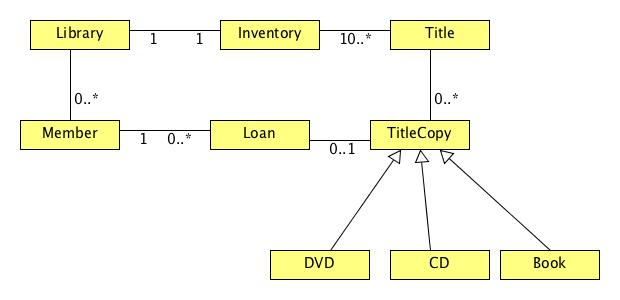
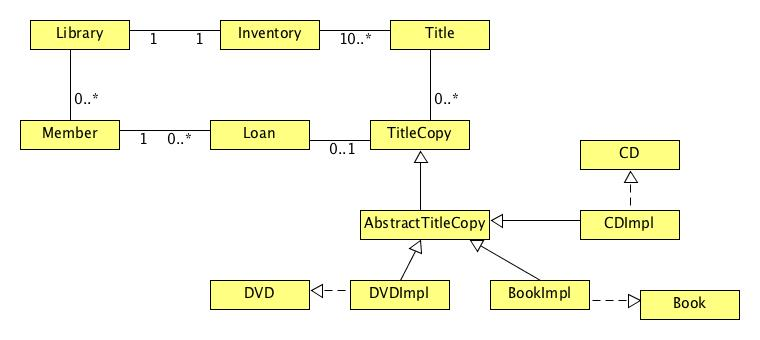
- update class diagram - make TitleCopyImpl abstract

diff --git a/simple-library/src/test/java/org/ahoque/MemberImplTest.java b/simple-library/src/test/java/org/ahoque/MemberImplTest.java
@@ -25,7 +25,7 @@ public class MemberImplTest {
 	@Test
 	public void givenOneItem_whenTheItemIsBorrowed_thenTheNumberOfBorrowedItemsShouldBeOne() {
 		
-		TitleCopy item = new TitleCopyImpl("1234");
+		TitleCopy item = new DVDImpl("1234");
 		member.borrowItem(item);
 		
 		assertEquals(1, member.getLoanItems().size());
@@ -34,7 +34,7 @@ public class MemberImplTest {
 	@Test
 	public void givenOneItem_whenTheItemIsBorrowed_andReturned_thenTheNumberOfBorrowedItemsShouldBeZero() {
 		
-		TitleCopy item = new TitleCopyImpl("1234");
+		TitleCopy item = new DVDImpl("1234");
 		member.returnItem(item);
 
 		assertEquals(0, member.getLoanItems().size());
@@ -44,21 +44,21 @@ public class MemberImplTest {
 	public void givenFourItems_whenItemsAreBorrowedAndTwoAreReturned_thenTheNumberOfBorrowedItemShouldBeTwo() {
 		
 		List<TitleCopy> items = new ArrayList<>();
-		items.add(new TitleCopyImpl("1234"));
-		items.add(new TitleCopyImpl("23432"));
-		items.add(new TitleCopyImpl("32432"));
-		items.add(new TitleCopyImpl("132432"));
+		items.add(new DVDImpl("1234"));
+		items.add(new DVDImpl("23432"));
+		items.add(new DVDImpl("32432"));
+		items.add(new DVDImpl("132432"));
 		
 		items.forEach( item -> member.borrowItem(item));
 		
-		member.returnItem(new TitleCopyImpl("23432"));
-		member.returnItem(new TitleCopyImpl("132432"));
+		member.returnItem(new DVDImpl("23432"));
+		member.returnItem(new DVDImpl("132432"));
 
 		assertEquals(2, member.getLoanItems().size());
 		
 		List<TitleCopy> expectedLoanedItems = new ArrayList<>();
-		expectedLoanedItems.add(new TitleCopyImpl("1234"));
-		expectedLoanedItems.add(new TitleCopyImpl("32432"));
+		expectedLoanedItems.add(new DVDImpl("1234"));
+		expectedLoanedItems.add(new DVDImpl("32432"));
 		
 		assertEquals(expectedLoanedItems, member.getLoanItems());
 	}

diff --git a/simple-library/src/main/java/org/ahoque/AbstractTitleCopy.java b/simple-library/src/main/java/org/ahoque/AbstractTitleCopy.java
@@ -2,12 +2,14 @@ package org.ahoque;
 
 import java.util.Optional;
 
-public class TitleCopyImpl implements TitleCopy {
+public abstract class AbstractTitleCopy implements TitleCopy {
 
+	private static final int HASH = 7;
+	private static final int HASH_PRIME = 31;
+	
 	private final String id;
 	
-	/** When a copy is loaned the loan object is set.
-	 */
+	// When a copy is loaned the loan object is set.
 	private Optional<LoanImpl> loan = Optional.empty();
 
 	/**
@@ -15,7 +17,7 @@ public class TitleCopyImpl implements TitleCopy {
 	 * 
 	 * @param id the unique identifier of the copy
 	 */
-	public TitleCopyImpl(String id) {
+	public AbstractTitleCopy(String id) {
 		this.id = id;
 	}
 
@@ -41,8 +43,8 @@ public class TitleCopyImpl implements TitleCopy {
 
 	@Override
 	public int hashCode() {
-		int hash = 7;
-		hash = 31 * hash + id.hashCode();
+		int hash = HASH;
+		hash = HASH_PRIME * hash + id.hashCode();
 		return hash;
 	}
 

diff --git a/simple-library/src/test/java/org/ahoque/InventoryImplTest.java b/simple-library/src/test/java/org/ahoque/InventoryImplTest.java
@@ -25,7 +25,7 @@ public class InventoryImplTest {
 	public void givenAnEmptyInventory_whenAddItem_andGetLonableItems_thenTheInventoryShouldHaveOneItem() {
 		
 		Title title = new TitleImpl("Star Wars", "Marvel Comics");
-		TitleCopy copy = new TitleCopyImpl("1323");
+		TitleCopy copy = new DVDImpl("1323");
 		title.add(copy);
 		inventory.add(title);
 		
@@ -37,7 +37,7 @@ public class InventoryImplTest {
 		
 		for(int i = 0; i < 10; i++) {
 			Title title = new TitleImpl("Friends part" + (i + 1), "MGM");
-			TitleCopy copy = new TitleCopyImpl("1323" + i);
+			TitleCopy copy = new DVDImpl("1323" + i);
 			title.add(copy);
 			inventory.add(title);
 		}

diff --git a/simple-library/src/test/java/org/ahoque/TitleCopyImplTest.java b/simple-library/src/test/java/org/ahoque/TitleCopyImplTest.java
@@ -7,10 +7,10 @@ import org.junit.Test;
 public class TitleCopyImplTest {
 
 	@Test
-	public void givenTwoTitleCopies_whenEqualTest_thenTheTwoCopiesShouldBeEqual() {
+	public void givenTwoTitleCopies_whenTheTwoCopiesAreCompared_thenTheTwoCopiesShouldBeEqual() {
 		
-		TitleCopy copy1 = new TitleCopyImpl("12345");
-		TitleCopy copy2 = new TitleCopyImpl("12345");
+		TitleCopy copy1 = new DVDImpl("12345");
+		TitleCopy copy2 = new DVDImpl("12345");
 		
 		assertTrue(copy1.equals(copy2));
 	}

diff --git a/simple-library/src/test/java/org/ahoque/LibraryImplTest.java b/simple-library/src/test/java/org/ahoque/LibraryImplTest.java
@@ -23,7 +23,7 @@ public class LibraryImplTest {
 		library = new LibraryImpl();
 		
 		Title title = new TitleImpl("WarGames", "Metro-Goldwyn-Mayer Studios Inc");
-		TitleCopy warGamesCopy = new TitleCopyImpl(UNIQUE_ID);
+		TitleCopy warGamesCopy = new DVDImpl(UNIQUE_ID);
 		title.add(warGamesCopy);
 		library.addItemToInventory(title);
 				

diff --git a/simple-library/src/main/java/org/ahoque/DVDImpl.java b/simple-library/src/main/java/org/ahoque/DVDImpl.java
@@ -1,0 +1,9 @@
+package org.ahoque;
+
+public class DVDImpl extends AbstractTitleCopy implements DVD{
+
+	public DVDImpl(String id) {
+		super(id);
+	}
+
+}
